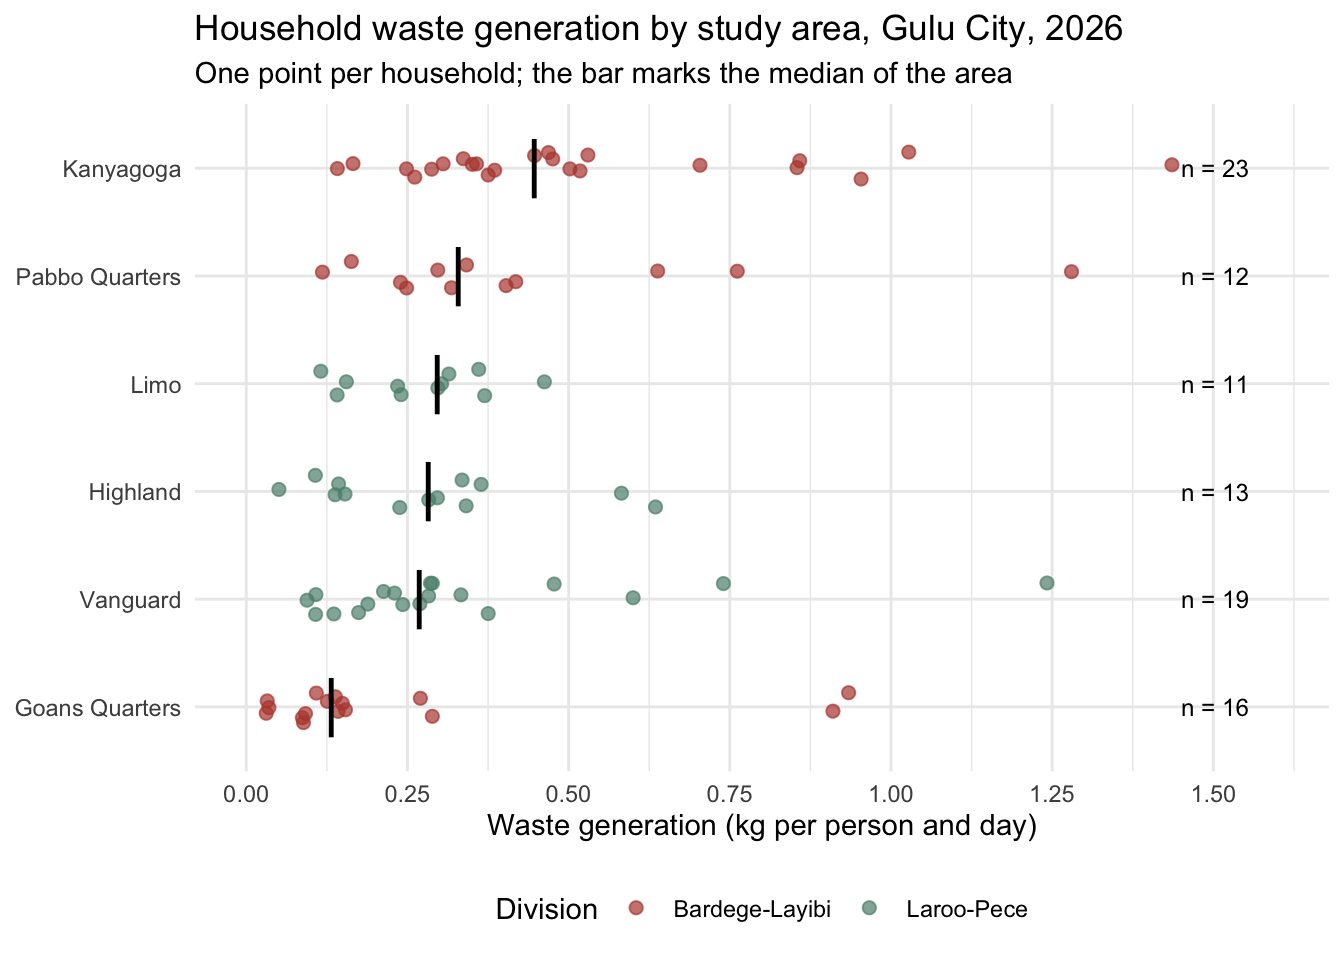
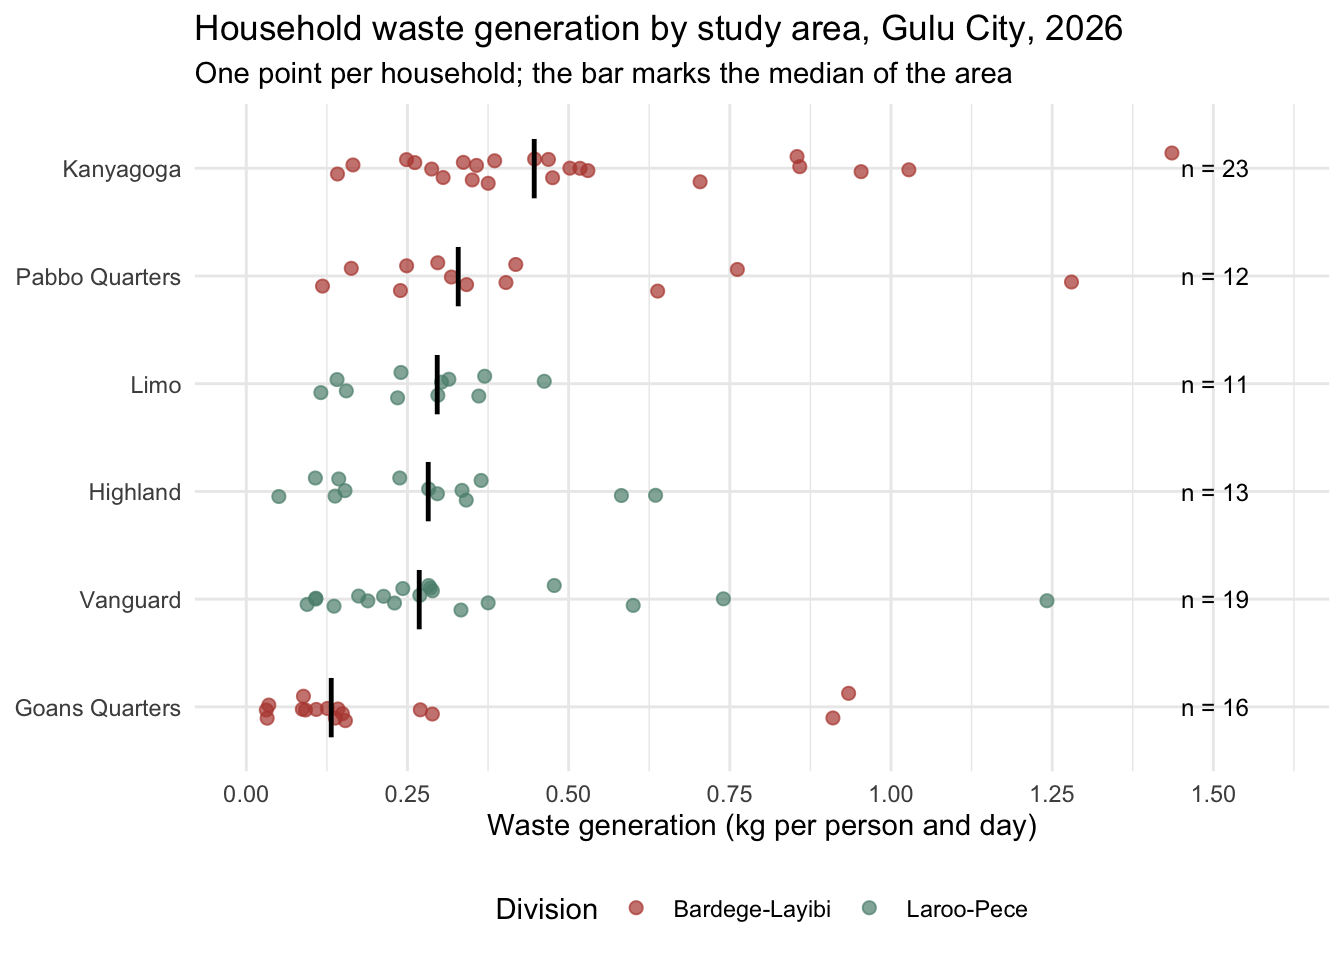
docs: seed the jitter of the README figure
The example figure jittered the points at random, so every README build
changed the PNG. set.seed() makes the figure reproducible.

Assisted-by: Claude Fable 5.1
Claude-Session: https://claude.ai/code/session_0154SimLgqMDWFF8c4STNQLS

diff --git a/README.md b/README.md
@@ -92,7 +92,7 @@ guluswm_survey |>
   gt::as_raw_html()
 ```
 
-<div id="uermlilvgk" style="padding-left:0px;padding-right:0px;padding-top:10px;padding-bottom:10px;overflow-x:auto;overflow-y:auto;width:auto;height:auto;">
+<div id="gqotsiqhng" style="padding-left:0px;padding-right:0px;padding-top:10px;padding-bottom:10px;overflow-x:auto;overflow-y:auto;width:auto;height:auto;">
   &#10;  <table class="gt_table" data-quarto-disable-processing="false" data-quarto-bootstrap="false" style="-webkit-font-smoothing: antialiased; -moz-osx-font-smoothing: grayscale; font-family: system-ui, 'Segoe UI', Roboto, Helvetica, Arial, sans-serif, 'Apple Color Emoji', 'Segoe UI Emoji', 'Segoe UI Symbol', 'Noto Color Emoji'; display: table; border-collapse: collapse; line-height: normal; margin-left: auto; margin-right: auto; color: #333333; font-size: 16px; font-weight: normal; font-style: normal; background-color: #FFFFFF; width: auto; border-top-style: solid; border-top-width: 2px; border-top-color: #A8A8A8; border-right-style: none; border-right-width: 2px; border-right-color: #D3D3D3; border-bottom-style: solid; border-bottom-width: 2px; border-bottom-color: #A8A8A8; border-left-style: none; border-left-width: 2px; border-left-color: #D3D3D3;" bgcolor="#FFFFFF">
   <thead style="border-style: none;">
     <tr class="gt_col_headings" style="border-style: none; border-top-style: solid; border-top-width: 2px; border-top-color: #D3D3D3; border-bottom-style: solid; border-bottom-width: 2px; border-bottom-color: #D3D3D3; border-left-style: none; border-left-width: 1px; border-left-color: #D3D3D3; border-right-style: none; border-right-width: 1px; border-right-color: #D3D3D3;">
@@ -1204,7 +1204,7 @@ guluswm_waste |>
   gt::as_raw_html()
 ```
 
-<div id="hbduorrmuq" style="padding-left:0px;padding-right:0px;padding-top:10px;padding-bottom:10px;overflow-x:auto;overflow-y:auto;width:auto;height:auto;">
+<div id="hhrxnjloyj" style="padding-left:0px;padding-right:0px;padding-top:10px;padding-bottom:10px;overflow-x:auto;overflow-y:auto;width:auto;height:auto;">
   &#10;  <table class="gt_table" data-quarto-disable-processing="false" data-quarto-bootstrap="false" style="-webkit-font-smoothing: antialiased; -moz-osx-font-smoothing: grayscale; font-family: system-ui, 'Segoe UI', Roboto, Helvetica, Arial, sans-serif, 'Apple Color Emoji', 'Segoe UI Emoji', 'Segoe UI Symbol', 'Noto Color Emoji'; display: table; border-collapse: collapse; line-height: normal; margin-left: auto; margin-right: auto; color: #333333; font-size: 16px; font-weight: normal; font-style: normal; background-color: #FFFFFF; width: auto; border-top-style: solid; border-top-width: 2px; border-top-color: #A8A8A8; border-right-style: none; border-right-width: 2px; border-right-color: #D3D3D3; border-bottom-style: solid; border-bottom-width: 2px; border-bottom-color: #A8A8A8; border-left-style: none; border-left-width: 2px; border-left-color: #D3D3D3;" bgcolor="#FFFFFF">
   <thead style="border-style: none;">
     <tr class="gt_col_headings" style="border-style: none; border-top-style: solid; border-top-width: 2px; border-top-color: #D3D3D3; border-bottom-style: solid; border-bottom-width: 2px; border-bottom-color: #D3D3D3; border-left-style: none; border-left-width: 1px; border-left-color: #D3D3D3; border-right-style: none; border-right-width: 1px; border-right-color: #D3D3D3;">
@@ -2581,6 +2581,7 @@ library(guluswm)
 library(dplyr)
 library(ggplot2)
 
+set.seed(2026)
 analysed <- guluswm_waste |>
   filter(included_in_averages == "Yes") |>
   mutate(area = reorder(area, generation_kg_cap_day, FUN = median))
